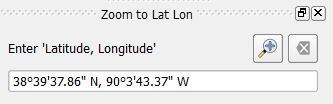
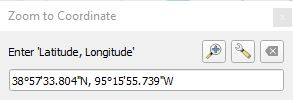
added settings direct link button

diff --git a/zoomToLatLon.py b/zoomToLatLon.py
@@ -30,6 +30,8 @@ class ZoomToLatLon(QDockWidget, FORM_CLASS):
         self.clearToolButton.setIcon(QIcon(':/images/themes/default/mIconClearText.svg'))
         self.zoomToolButton.clicked.connect(self.zoomToPressed)
         self.clearToolButton.clicked.connect(self.removeMarker)
+        self.optionsButton.setIcon(QIcon(':/images/themes/default/mActionOptions.svg'))
+        self.optionsButton.clicked.connect(self.showSettings)
         self.lltools = lltools
         self.settings = lltools.settingsDialog
         self.iface = iface
@@ -214,3 +216,6 @@ class ZoomToLatLon(QDockWidget, FORM_CLASS):
             self.canvas.scene().removeItem(self.marker)
             self.marker = None
             self.coordTxt.clear()
+
+    def showSettings(self):
+        self.settings.showTab(0)

diff --git a/readme.md b/readme.md
@@ -12,7 +12,7 @@ Some of the functions can be accessed from the ***Lat Lon Tools*** toolbar. If f
   
 * <img src="images/mapicon.png" alt="Show in External Map"> ***Show in External Map*** - With this tool, the user can click on the QGIS map which launches an external browser and displays the location on an external map. The left and right mouse buttons can be configured to show different maps. Currently Open Street Map, Google Maps, MapQuest, Mapillary, Open Street Map iD Editor, and Bing Maps are supported. Google Earth is supported if it is installed on the system. The desired maps can be configured in **Settings**. A temporary marker can be displayed on the map at the location clicked on. To turn this on go to **Settings**. If snapping is enabled, then the clicked location will snap to any close vector vertices according to the parameters set in the snapping options.
 
-* <img src="images/zoomicon.png" alt="Zoom-to"> ***Zoom to Coordinate*** - With this tool, type or paste a coordinate into the text area and hit **Enter**. QGIS centers the map on the coordinate, highlights the location and creates a temporary marker at the location. The marker can be removed with the <img src="doc/cleartool.jpg" alt="Clear marker"> button. If the default **WGS 84** (EPSG:4326 - latitude/longitude) coordinate system is specified, ***Zoom to Coordinate*** can interpret **decimal degrees**, **DMS**, **WKT POINT**, **Standard UTM**, **MGRS**, **Plus Codes**, or **GeoJSON** coordinates. It can also zoom to **Geohash** coordinates or any other projection when configured in **Settings**. The ***Coordinate Order*** in ***Settings*** dictates whether the order is latitude followed by longitude (Y,X) or longitude followed by latitude (X,Y). By default the order is "Latitude, Longitude", the format used by Google Maps. Pressing the <img src="doc/zoomtool.jpg" alt="Zoom button"> also causes QGIS to zoom to that location.<br /><div style="text-align:center"><img src="doc/zoomto.jpg" alt="Zoom to Latitude, Longitude"></div><br />The following are acceptable coordinate formats when the ***Settings*** **Zoom to Coordinate Type** is set to ***WGS 84 (Latitude & Longitude)***. When the letters "N, S, E, W" are used, then the coordinate order is not important. These letters can be used before or after the coordinates. As long as the coordinate is understandable, punctuation, spaces, and &deg; ' " are optional. In these examples "d" represents degree digits, "m" minutes, and "s" seconds. Here are some example input formats:
+* <img src="images/zoomicon.png" alt="Zoom-to"> ***Zoom to Coordinate*** - With this tool, type or paste a coordinate into the text area and hit **Enter**. QGIS centers the map on the coordinate, highlights the location and creates a temporary marker at the location. The marker can be removed with the <img src="doc/cleartool.jpg" alt="Clear marker"> button. If the default **WGS 84** (EPSG:4326 - latitude/longitude) coordinate system is specified, ***Zoom to Coordinate*** can interpret **decimal degrees**, **DMS**, **WKT POINT**, **Standard UTM**, **MGRS**, **Plus Codes**, or **GeoJSON** coordinates. It can also zoom to **Geohash** coordinates or any other projection when configured in **Settings**. The ***Coordinate Order*** in ***Settings*** dictates whether the order is latitude followed by longitude (Y,X) or longitude followed by latitude (X,Y). By default the order is "Latitude, Longitude", the format used by Google Maps. Pressing the <img src="doc/zoomtool.jpg" alt="Zoom button"> also causes QGIS to zoom to that location. The behavior and coordinate types that are interpreted can be configured by pressing the **Settings** button <img src="doc/settings.png">.<br /><div style="text-align:center"><img src="doc/zoomto.jpg" alt="Zoom to Latitude, Longitude"></div><br />The following are acceptable coordinate formats when the ***Settings*** **Zoom to Coordinate Type** is set to ***WGS 84 (Latitude & Longitude)***. When the letters "N, S, E, W" are used, then the coordinate order is not important. These letters can be used before or after the coordinates. As long as the coordinate is understandable, punctuation, spaces, and &deg; ' " are optional. In these examples "d" represents degree digits, "m" minutes, and "s" seconds. Here are some example input formats:
 
     * Decimal Degree: 38.959390&deg;, -95.265483&deg; / 38.959390, -95.265483 / 38.959390N, 95.265483 W (d.dddd, d.dddd)
     * Degree, Minute: 38&deg; 57.5634'N 95&deg; 15.92890'W (d m.mmmm, d m.mmmm)
